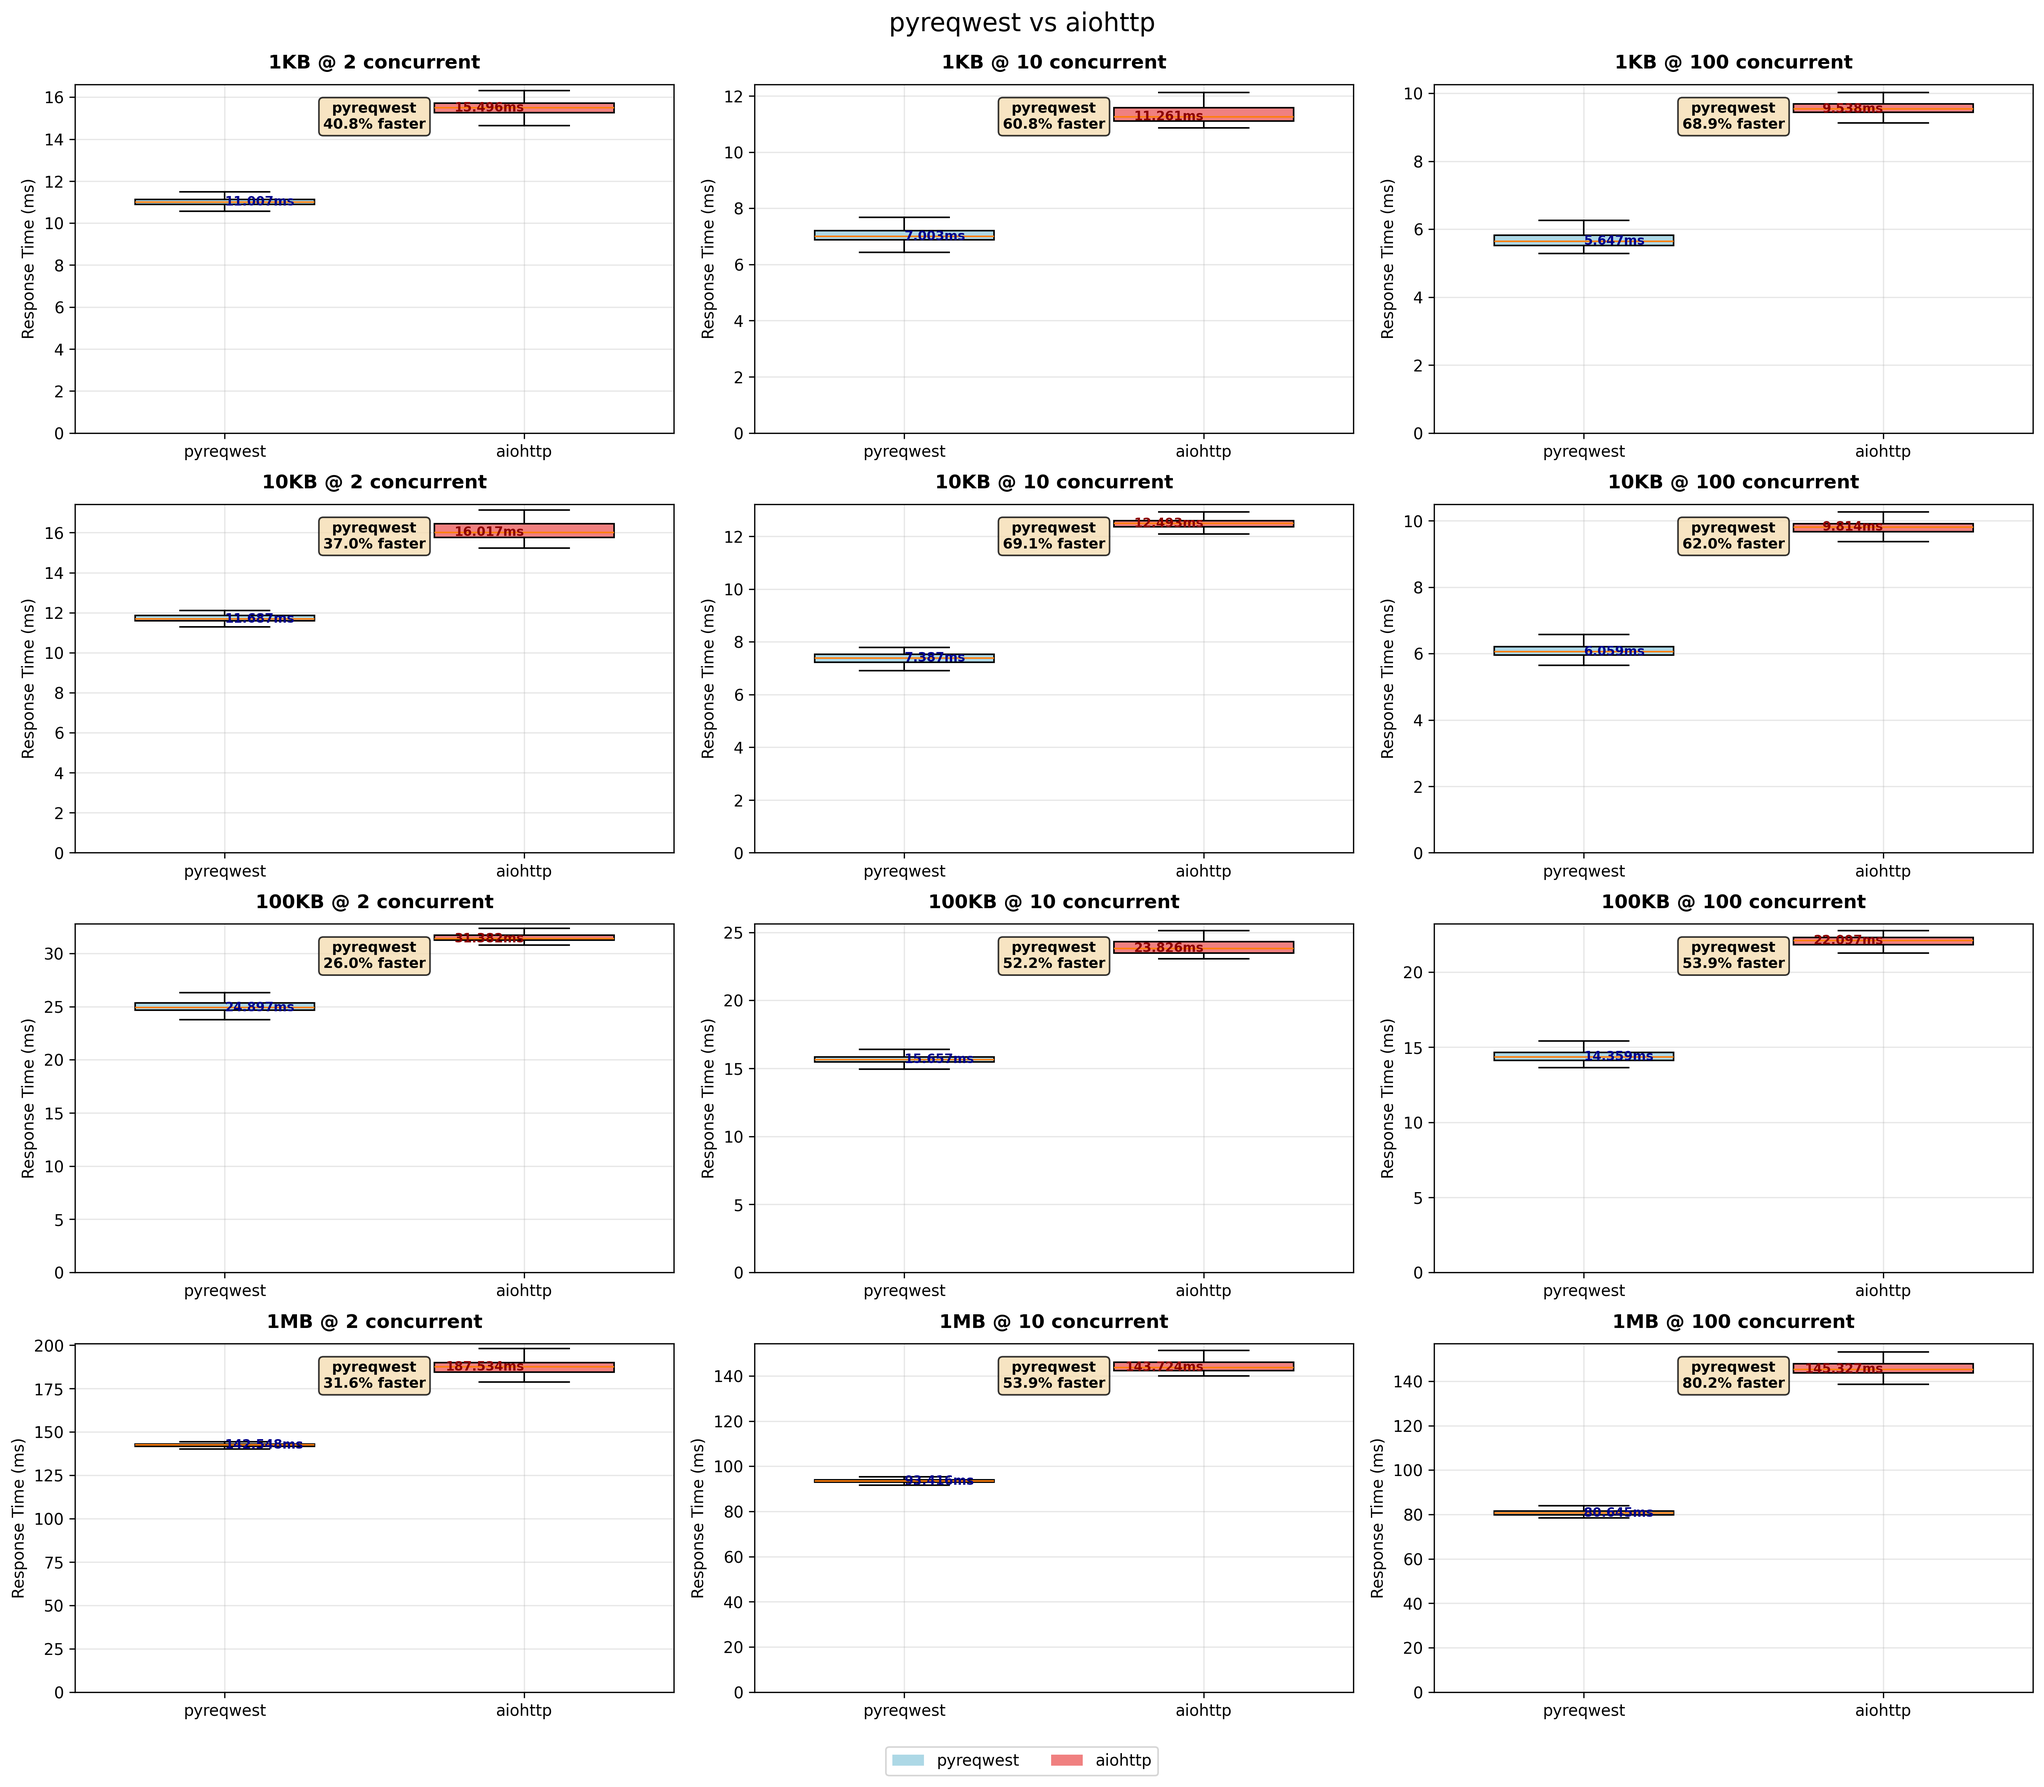
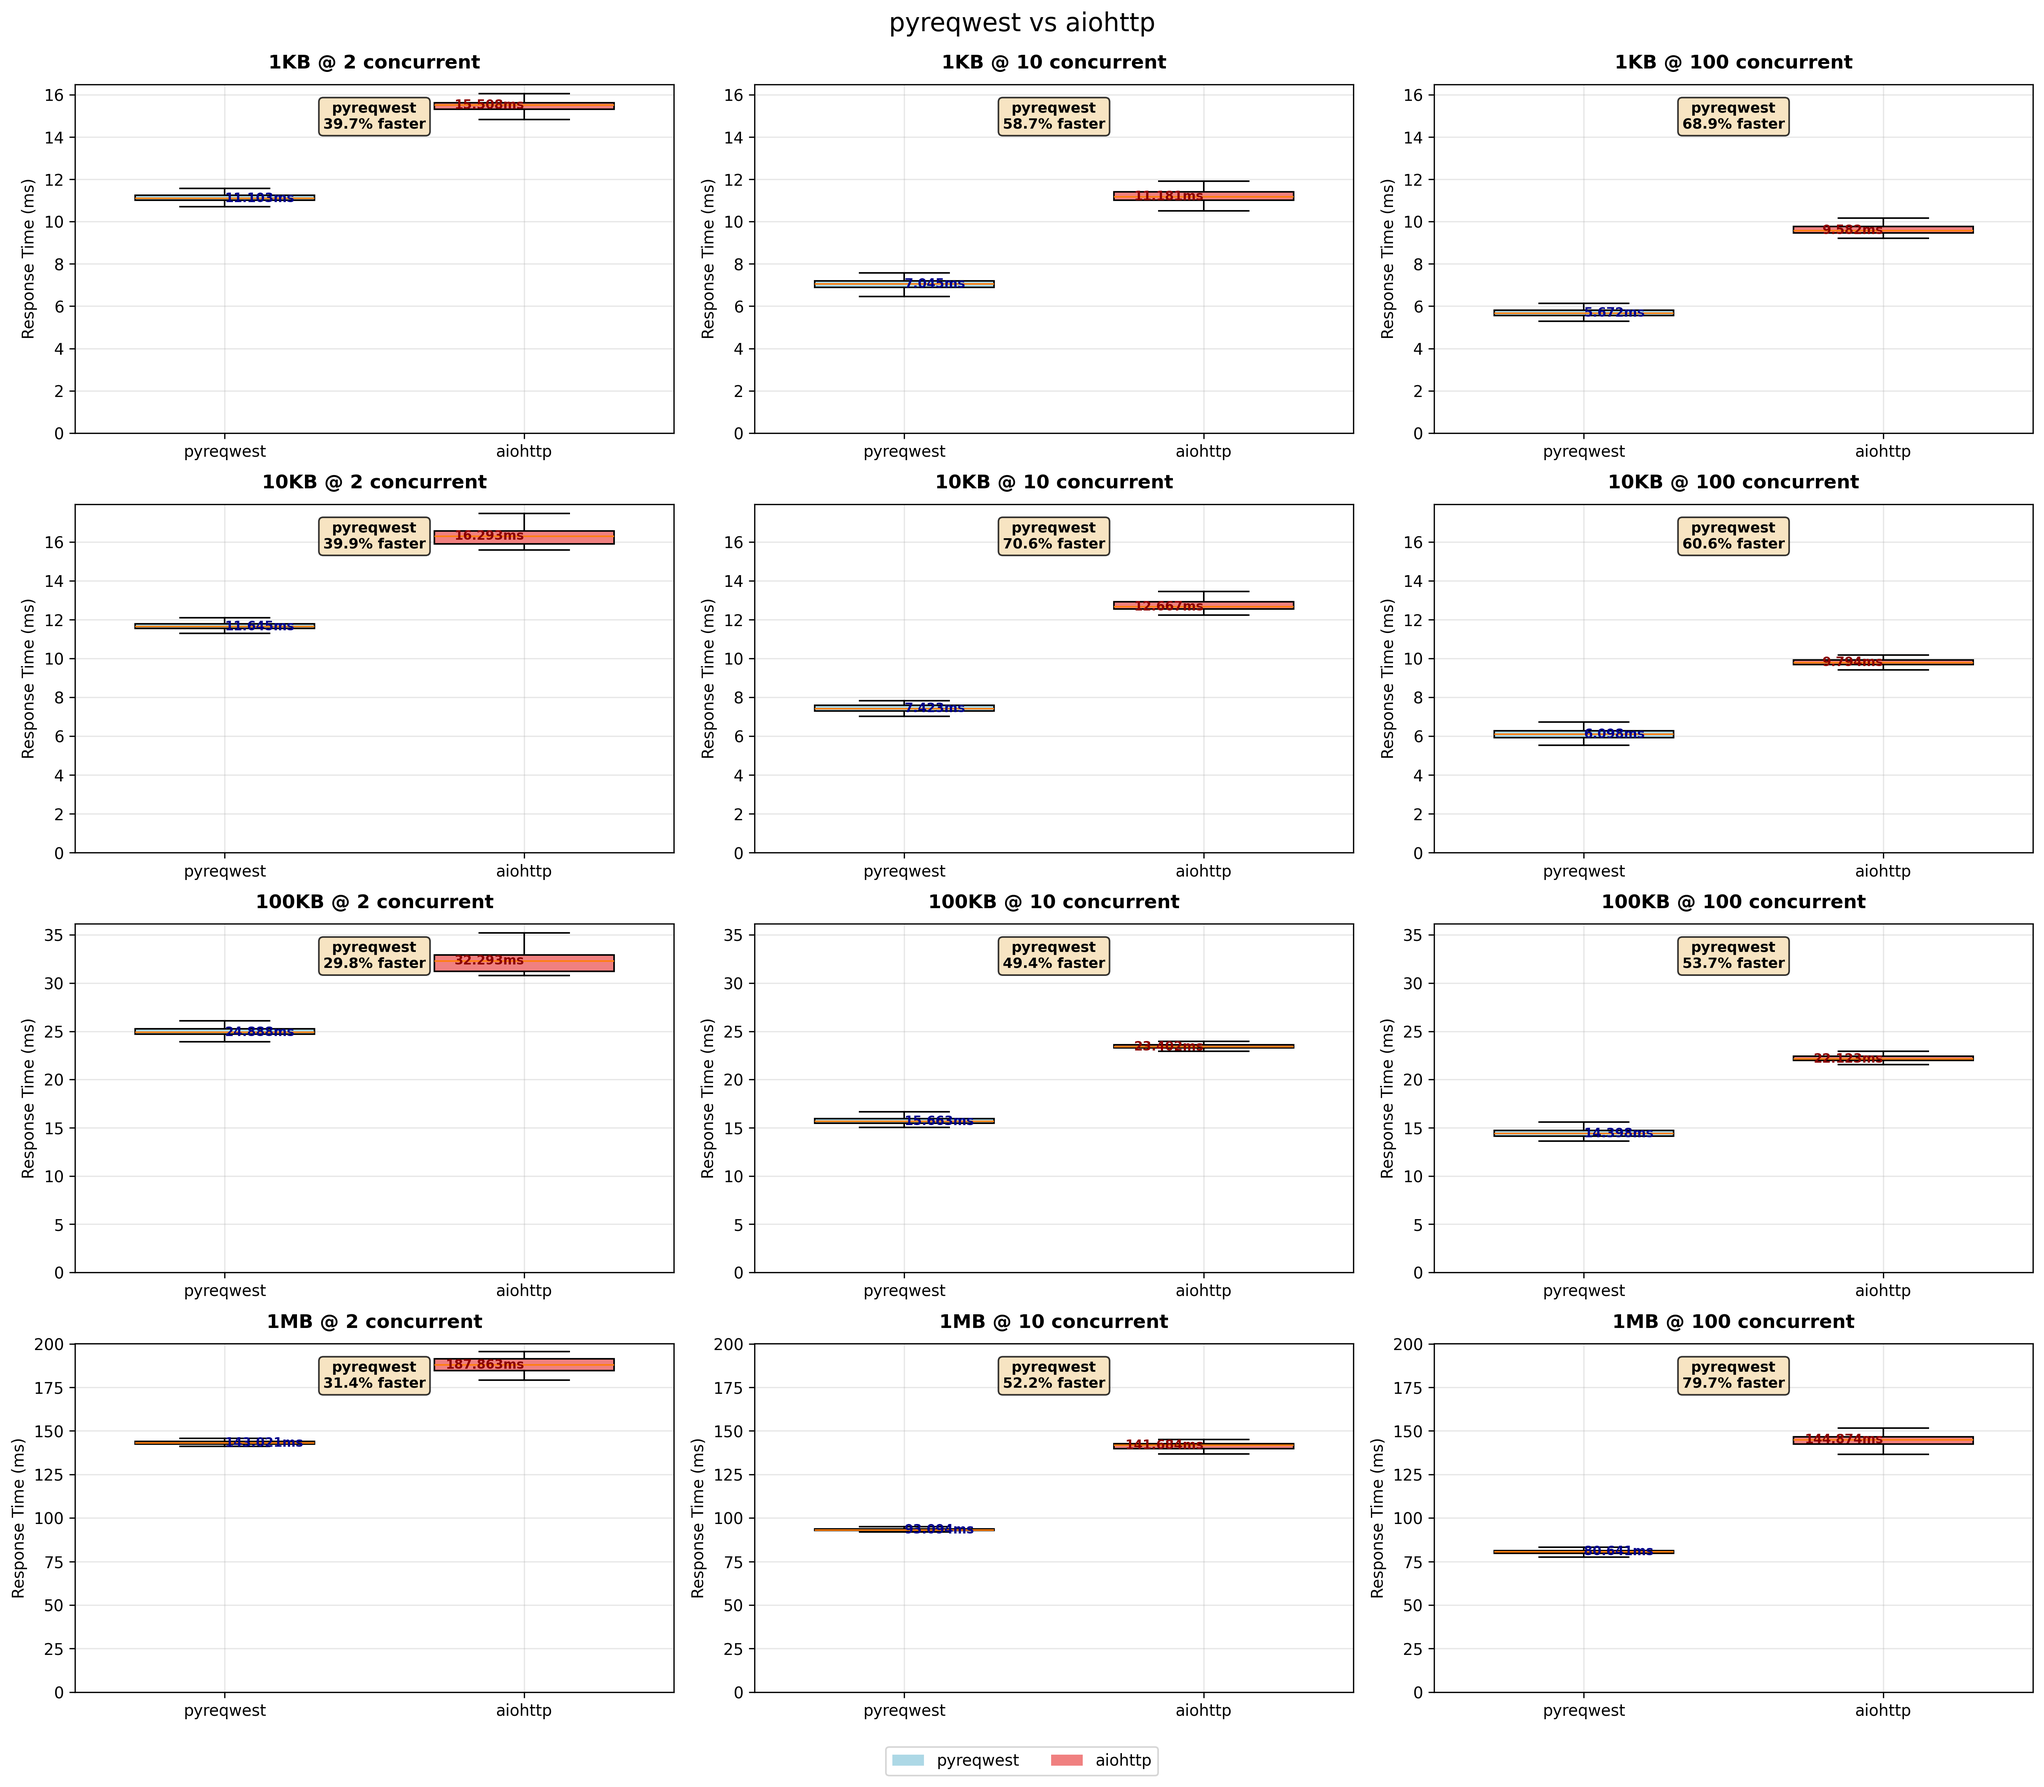
fix ylims

diff --git a/benchmark_performance.py b/benchmark_performance.py
@@ -185,6 +185,7 @@ class PerformanceBenchmark:
 
         for i, body_size in enumerate(self.body_sizes):
             size_label = f"{body_size//1000}KB" if body_size < 1_000_000 else f"{body_size//1_000_000}MB"
+            ymax = 0
 
             for j, concurrency in enumerate(self.concurrency_levels):
                 ax: Axes = axes[i][j]
@@ -203,6 +204,7 @@ class PerformanceBenchmark:
                     tick_labels=["pyreqwest", self.comparison_lib],
                     widths=0.6,
                 )
+                ymax = max(ymax, ax.get_ylim()[1])
 
                 # Color the boxes
                 for patch, color in zip(box_plot["boxes"], legend_colors.values()):
@@ -211,7 +213,6 @@ class PerformanceBenchmark:
                 # Customize subplot
                 ax.set_title(f"{size_label} @ {concurrency} concurrent", fontweight='bold', pad=10)
                 ax.set_ylabel("Response Time (ms)")
-                ax.set_ylim(ymin=0)
                 ax.grid(True, alpha=0.3)
 
                 # Calculate and add performance comparison
@@ -237,6 +238,9 @@ class PerformanceBenchmark:
                        ha='left', va='center', fontsize=8, color='darkblue', fontweight='bold')
                 ax.text(2, comparison_median, f"{comparison_median:.3f}ms",
                        ha='right', va='center', fontsize=8, color='darkred', fontweight='bold')
+
+            for j, _ in enumerate(self.concurrency_levels):
+                axes[i][j].set_ylim(ymin=0, ymax=ymax * 1.01)  # Uniform y-axis per row
 
         # Add overall legend
         legends = [
